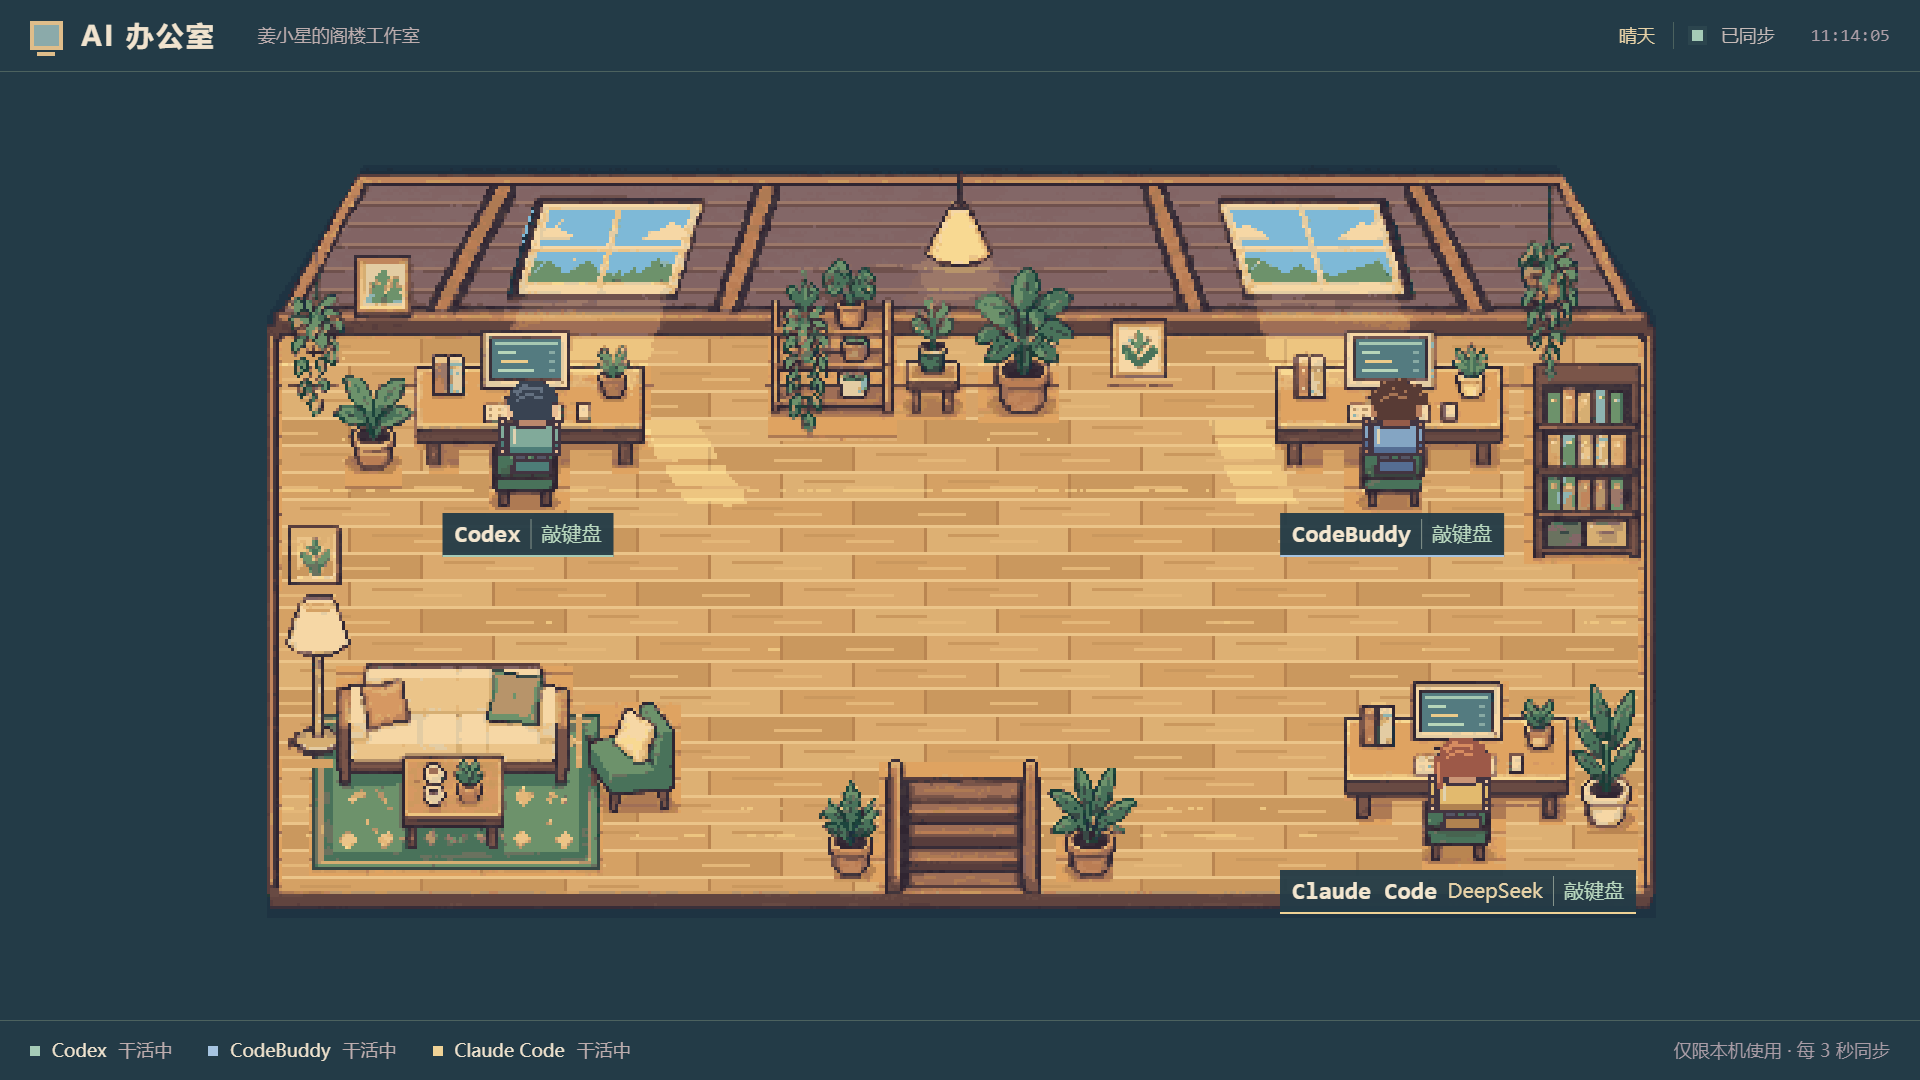
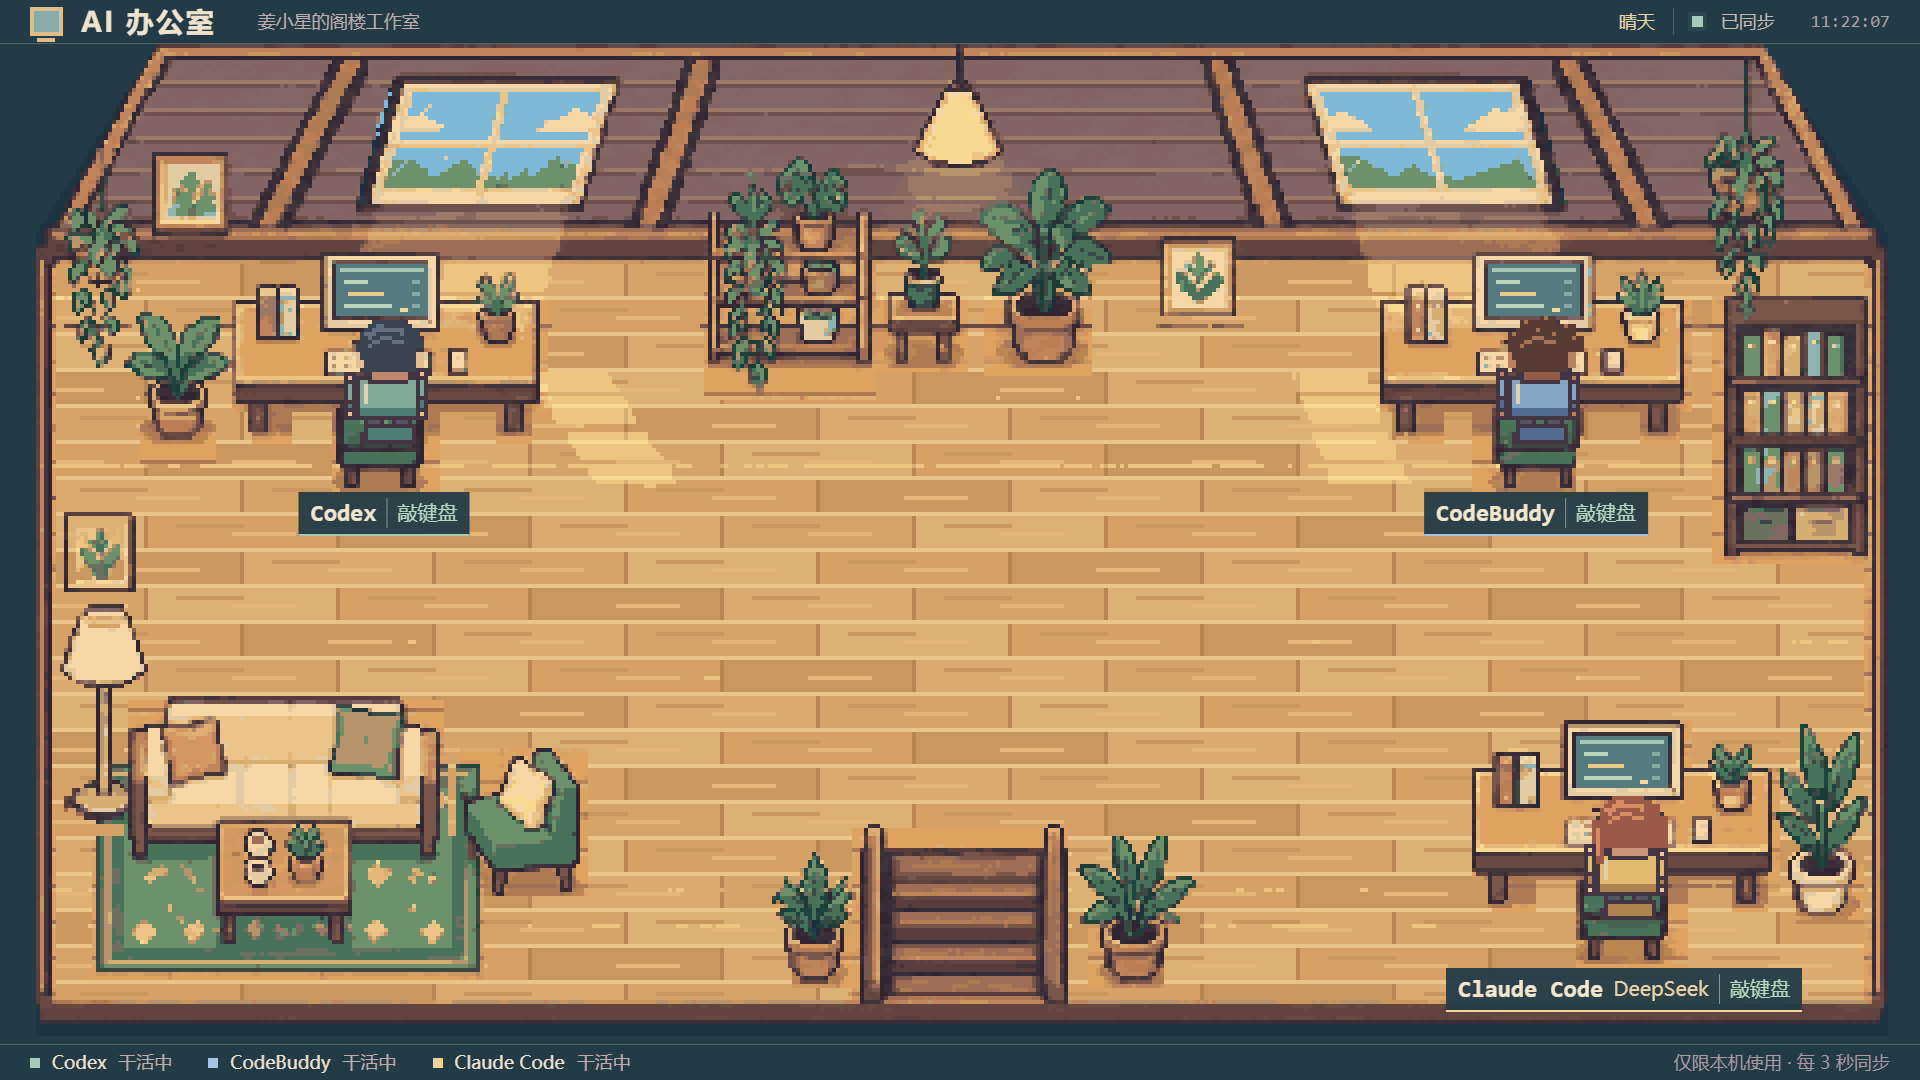
恢复阁楼画布四倍整数缩放并压薄顶底栏
桌面顶栏和底栏改为44px与36px半透明叠加，保留28px标题和至少18px栏内文字；窄屏继续换行独立占位，标签与重连提示避让两栏。

补充四倍满屏、文字可见和遮挡回归，更新1920×1080干活截图。无头办公室与拥挤标签回归通过，截图116544个4×4像素块清晰度检查通过。

diff --git a/static/office.css b/static/office.css
@@ -1,8 +1,8 @@
 :root { color-scheme: dark; font-family: 'Microsoft YaHei UI', 'Microsoft YaHei', sans-serif; color: #f0e3ce; background: #292a3d; }
 * { box-sizing: border-box; }
 html, body { width: 100%; height: 100%; margin: 0; overflow: hidden; }
-body { position: relative; height: 100dvh; display: grid; grid-template-rows: auto minmax(0, 1fr) auto; background: #233b47; }
-#bar { position: relative; min-height: 72px; z-index: 2; display: flex; justify-content: space-between; align-items: center; gap: 18px; padding: 12px 30px; background: #233b47f2; border-bottom: 1px solid #4c625f; }
+body { position: relative; height: 100dvh; background: #233b47; }
+#bar { position: absolute; inset: 0 0 auto; min-height: 44px; z-index: 2; display: flex; justify-content: space-between; align-items: center; gap: 18px; padding: 0 30px; background: #233b47f2; border-bottom: 1px solid #4c625f; }
 .identity, .connection { display: flex; align-items: center; gap: 18px; min-width: 0; }
 h1 { margin: 0; font-size: 28px; line-height: 36px; font-weight: 700; white-space: nowrap; letter-spacing: 2px; }
 .owner { color: #bdadae; font-size: 18px; line-height: 1.5; margin-left: 24px; }
@@ -14,7 +14,7 @@ h1 { margin: 0; font-size: 28px; line-height: 36px; font-weight: 700; white-spac
 .signal.live { background: #a5cbb7; box-shadow: 0 0 0 4px #a5cbb711; }
 .signal.error { background: #e5a48b; }
 #ts { font-family: Consolas, monospace; font-variant-numeric: tabular-nums; color: #ad9ea7; margin-left: 18px; }
-#wrap { position: relative; min-height: 0; overflow: hidden; background: #233b47; }
+#wrap { position: absolute; inset: 0; min-height: 0; overflow: hidden; background: #233b47; }
 #game { display: block; image-rendering: pixelated; image-rendering: crisp-edges; position: absolute; }
 #labels { position: absolute; inset: 0; pointer-events: none; }
 .nameplate { position: absolute; transform: translateX(-50%); display: flex; align-items: center; gap: 10px; padding: 6px 12px; color: #f3e6cf; font-size: 22px; line-height: 30px; white-space: nowrap; background: #233b47f2; border-bottom: 2px solid var(--agent-color); }
@@ -24,16 +24,19 @@ h1 { margin: 0; font-size: 28px; line-height: 36px; font-weight: 700; white-spac
 .nameplate.working span { color: #b8d7be; }
 #loading, #notice { position: absolute; left: 50%; transform: translateX(-50%); padding: 10px 16px; background: #3b3445; border: 1px solid #b39b7b; font-size: 12px; z-index: 2; }
 #loading { top: 44%; }
-#notice { bottom: 12px; max-width: calc(100% - 24px); color: #f3cb9f; text-align: center; }
+#notice { bottom: 48px; max-width: calc(100% - 24px); color: #f3cb9f; text-align: center; }
 [hidden] { display: none !important; }
-#footer { position: relative; min-height: 60px; z-index: 2; display: flex; align-items: center; justify-content: space-between; padding: 12px 30px; gap: 18px; background: #233b47f2; border-top: 1px solid #4c625f; }
+#footer { position: absolute; inset: auto 0 0; min-height: 36px; z-index: 2; display: flex; align-items: center; justify-content: space-between; padding: 0 30px; gap: 18px; background: #233b47f2; border-top: 1px solid #4c625f; }
 #roster { display: flex; gap: 36px; min-width: 0; }
 .agent-status { display: inline-flex; gap: 12px; align-items: center; font-size: 18px; line-height: 1.5; white-space: nowrap; }
 .agent-status i { width: 10px; height: 10px; flex-shrink: 0; background: var(--agent-color); }
 .agent-status em { font-style: normal; color: #bdadae; font-size: 18px; }
 .local { color: #a99ca6; font-size: 18px; line-height: 1.5; white-space: nowrap; }
 @media (max-width: 1100px) {
-  #bar, #footer { flex-wrap: wrap; padding: 12px 16px; gap: 12px; }
+  body { display: grid; grid-template-rows: auto minmax(0, 1fr) auto; }
+  #bar, #footer { position: relative; inset: auto; flex-wrap: wrap; padding: 6px 16px; gap: 8px 12px; }
+  #wrap { position: relative; inset: auto; }
+  #notice { bottom: 12px; }
   .identity { flex-wrap: wrap; gap: 12px; }
   .owner { margin-left: 0; }
   .connection { gap: 12px; }

diff --git a/static/office.js b/static/office.js
@@ -180,8 +180,10 @@
       el.classList.toggle('working',a.requested==='working');
     }
     const ww=wrap.clientWidth,wh=wrap.clientHeight,scale=layout.pixelScale;
-    // The room now occupies its own row between the header and footer.
-    const top=6,bottom=wh-6;
+    // Desktop bars overlay the room edges; wrapped mobile bars occupy their own rows.
+    const room=wrap.getBoundingClientRect();
+    const top=Math.max(0,document.getElementById('bar').getBoundingClientRect().bottom-room.top)+6;
+    const bottom=Math.min(wh,document.getElementById('footer').getBoundingClientRect().top-room.top)-6;
     const bodies=actors.map(a=>({x:layout.ox+(Math.round(a.x)-13)*scale-3,
       y:layout.oy+(Math.round(a.y)-(a.mode==='type'?40:34))*scale-3,
       w:26*scale+6,h:36*scale+6}));
